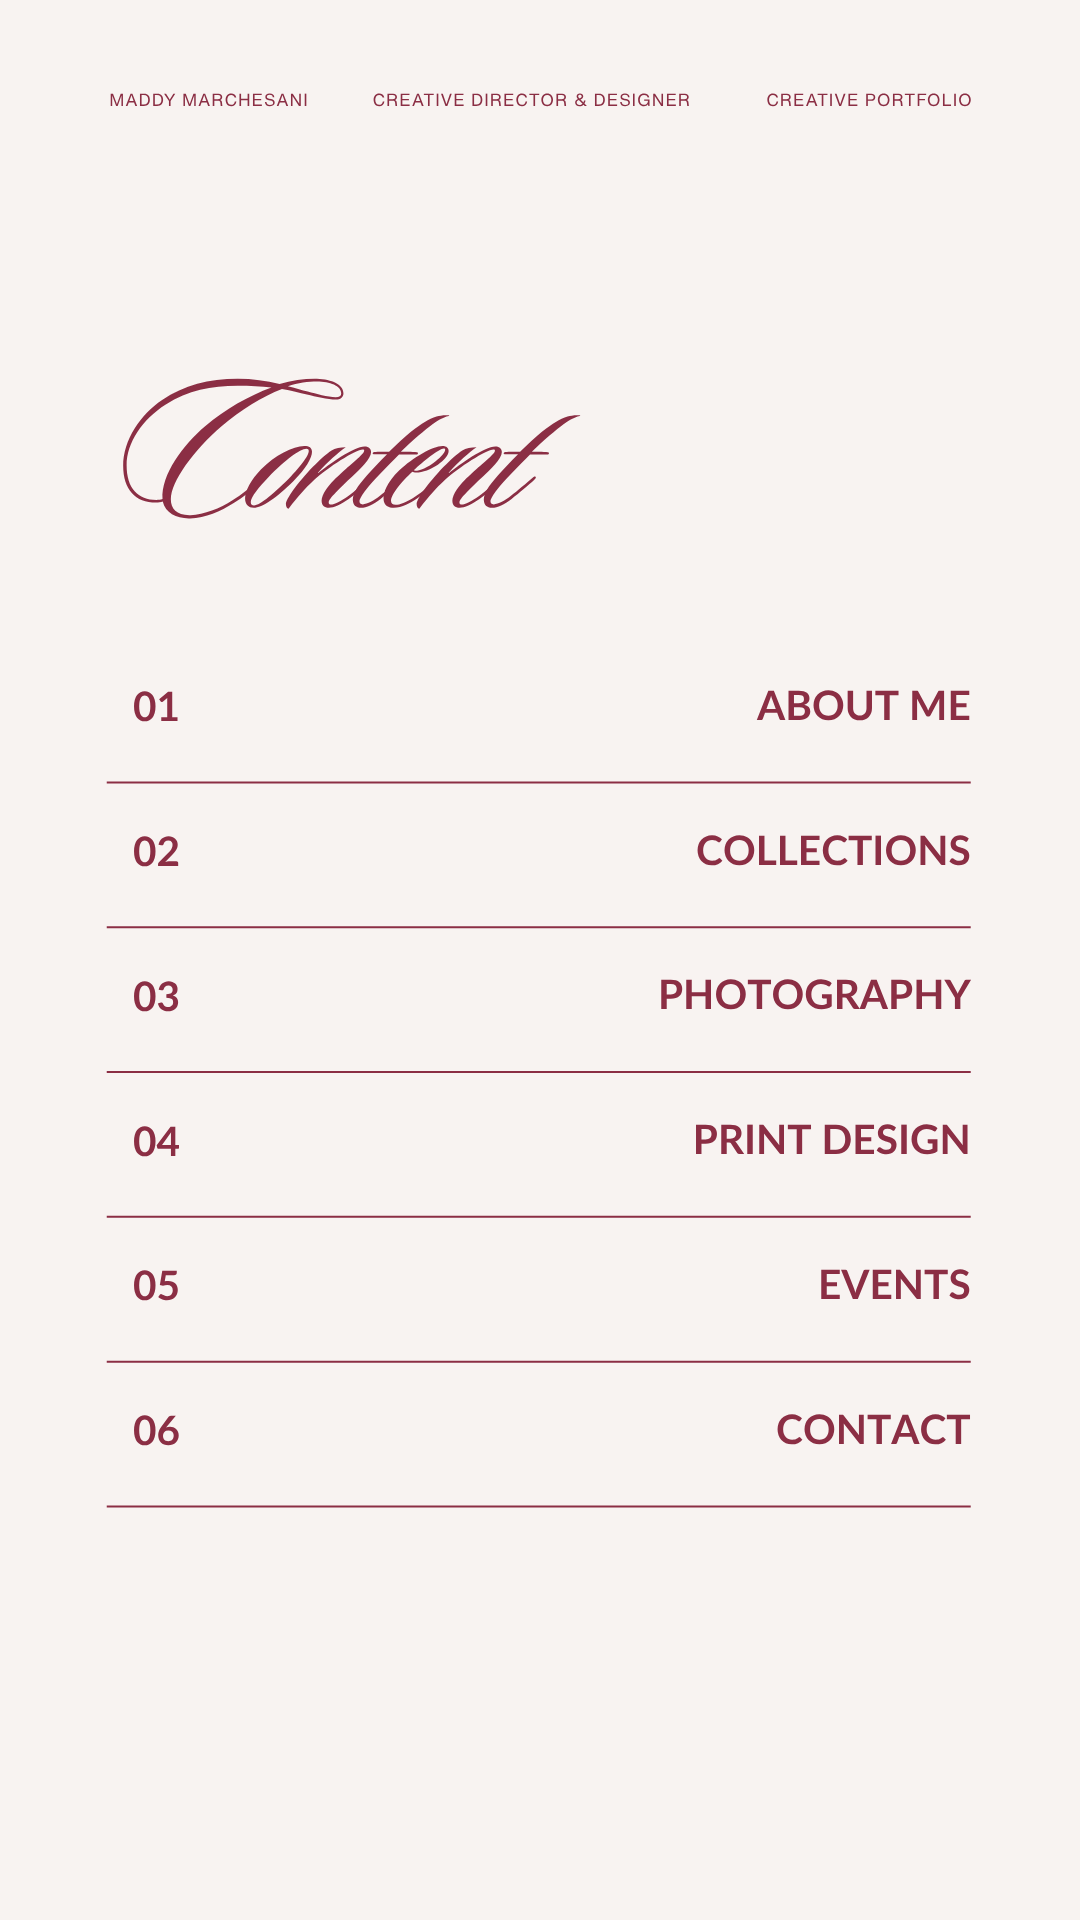
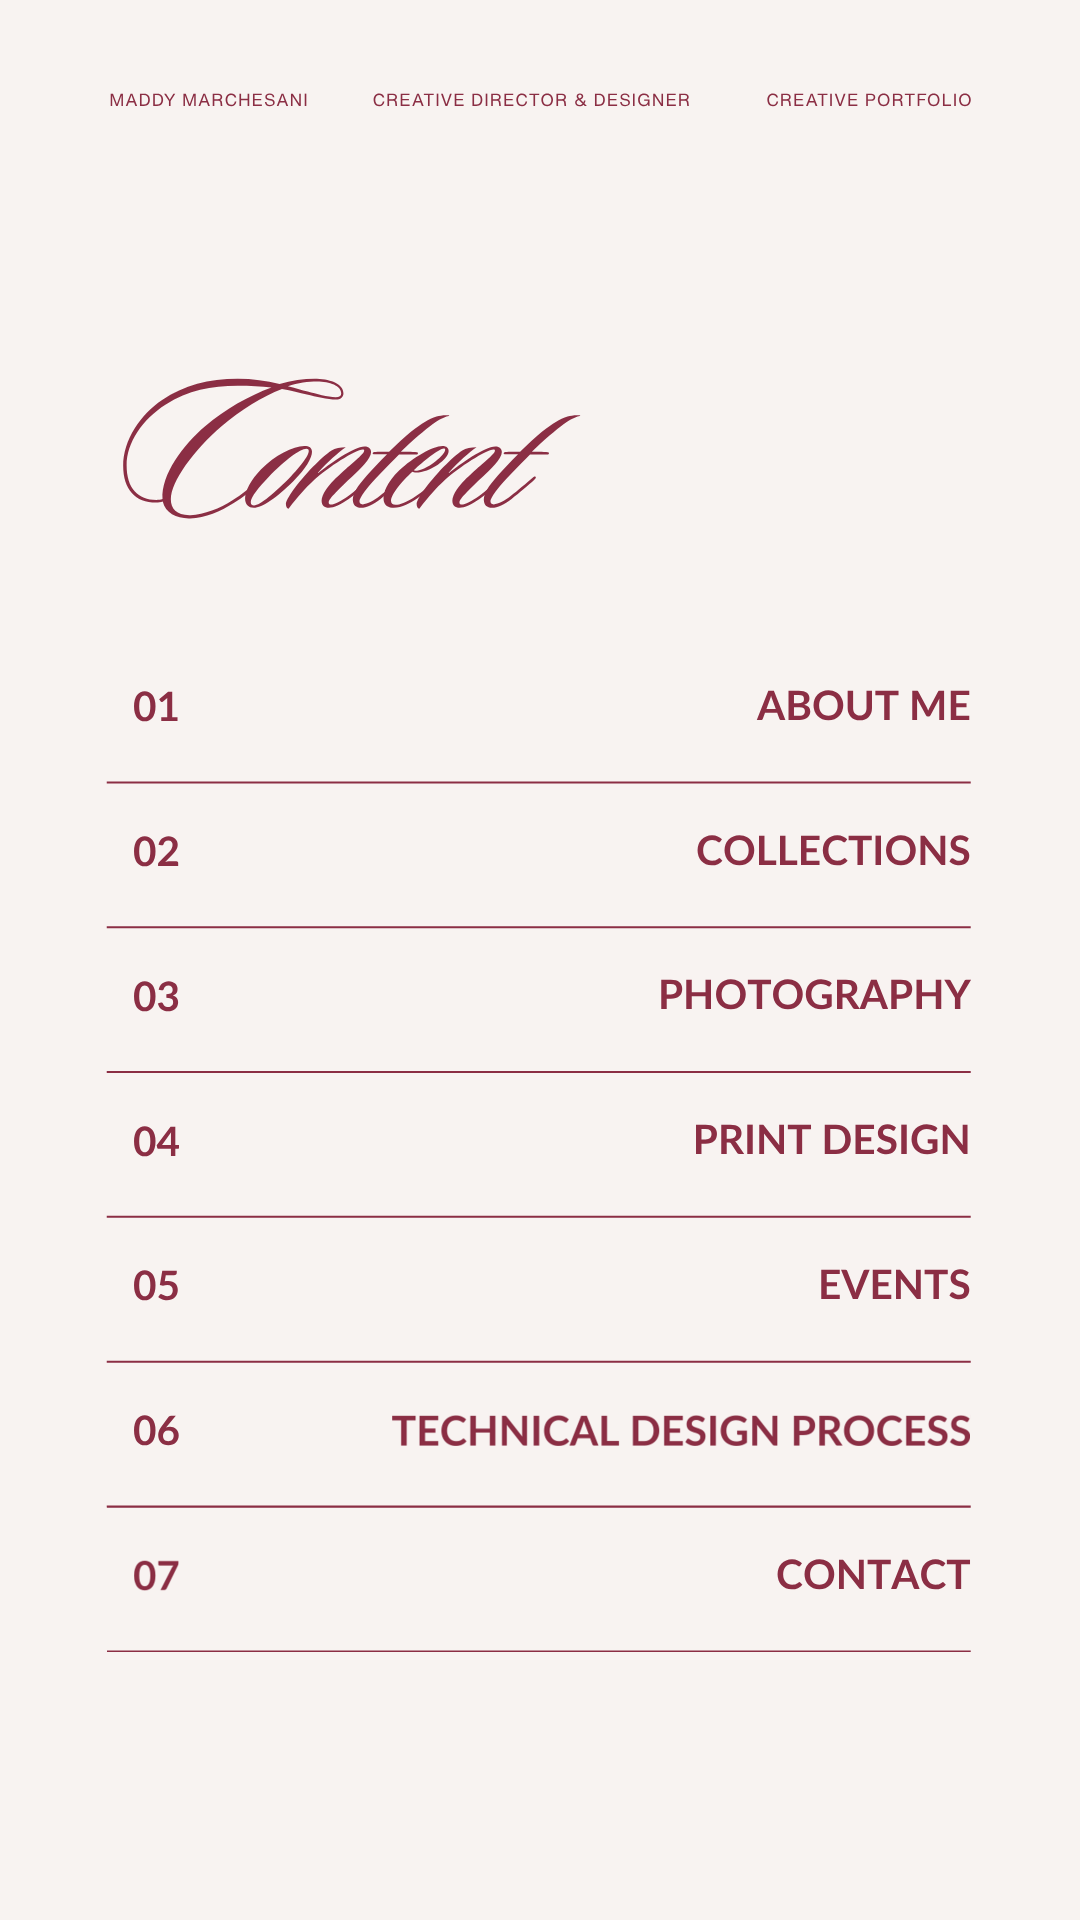
Add files via upload

diff --git a/contents.html b/contents.html
@@ -16,12 +16,13 @@
     <img class="design-bg contents-mobile-img mobile-img" src="assets/pages/contents-mobile.png" alt="Contents mobile" draggable="false">
 
     <!-- Desktop clickable buttons -->
-    <a class="hotlink contents-link contents-desktop-link" href="about.html" aria-label="About Me" style="left:48.12103%;top:26.56250%;width:32.21083%;height:7.81250%;"></a>
-    <a class="hotlink contents-link contents-desktop-link" href="collections.html" aria-label="Collections" style="left:48.12103%;top:36.11111%;width:32.21083%;height:7.81250%;"></a>
-    <a class="hotlink contents-link contents-desktop-link" href="photography.html" aria-label="Photography" style="left:48.12103%;top:45.65972%;width:32.21083%;height:7.81250%;"></a>
-    <a class="hotlink contents-link contents-desktop-link" href="print-design.html" aria-label="Print Design" style="left:48.12103%;top:55.20833%;width:32.21083%;height:7.81250%;"></a>
-    <a class="hotlink contents-link contents-desktop-link" href="events.html" aria-label="Events" style="left:48.12103%;top:64.75694%;width:32.21083%;height:7.81250%;"></a>
-    <a class="hotlink contents-link contents-desktop-link" href="contact.html" aria-label="Contact" style="left:48.12103%;top:74.30556%;width:32.21083%;height:7.81250%;"></a>
+    <a class="hotlink contents-link contents-desktop-link" href="about.html" aria-label="About Me" style="left:48.12103%;top:21.15890%;width:32.21083%;height:7.81250%;"></a>
+    <a class="hotlink contents-link contents-desktop-link" href="collections.html" aria-label="Collections" style="left:48.12103%;top:30.66410%;width:32.21083%;height:7.81250%;"></a>
+    <a class="hotlink contents-link contents-desktop-link" href="photography.html" aria-label="Photography" style="left:48.12103%;top:40.23440%;width:32.21083%;height:7.81250%;"></a>
+    <a class="hotlink contents-link contents-desktop-link" href="print-design.html" aria-label="Print Design" style="left:48.12103%;top:49.73960%;width:32.21083%;height:7.81250%;"></a>
+    <a class="hotlink contents-link contents-desktop-link" href="events.html" aria-label="Events" style="left:48.12103%;top:59.24480%;width:32.21083%;height:7.81250%;"></a>
+    <a class="hotlink contents-link contents-desktop-link" href="technical-design-process.html" aria-label="Technical Design Process" style="left:48.12103%;top:68.75000%;width:32.21083%;height:7.81250%;"></a>
+    <a class="hotlink contents-link contents-desktop-link" href="contact.html" aria-label="Contact" style="left:48.12103%;top:78.25520%;width:32.21083%;height:7.81250%;"></a>
 
     <!-- Mobile clickable buttons aligned to the visible rows -->
     <a class="hotlink contents-link contents-mobile-link" href="about.html" aria-label="About Me" style="left:8.40%;top:34.48%;width:83.20%;height:6.51%;"></a>
@@ -29,7 +30,8 @@
     <a class="hotlink contents-link contents-mobile-link" href="photography.html" aria-label="Photography" style="left:8.40%;top:49.53%;width:83.20%;height:6.51%;"></a>
     <a class="hotlink contents-link contents-mobile-link" href="print-design.html" aria-label="Print Design" style="left:8.40%;top:57.08%;width:83.20%;height:6.51%;"></a>
     <a class="hotlink contents-link contents-mobile-link" href="events.html" aria-label="Events" style="left:8.40%;top:64.64%;width:83.20%;height:6.51%;"></a>
-    <a class="hotlink contents-link contents-mobile-link" href="contact.html" aria-label="Contact" style="left:8.40%;top:72.19%;width:83.20%;height:6.51%;"></a>
+    <a class="hotlink contents-link contents-mobile-link" href="technical-design-process.html" aria-label="Technical Design Process" style="left:8.40%;top:72.19%;width:83.20%;height:6.51%;"></a>
+    <a class="hotlink contents-link contents-mobile-link" href="contact.html" aria-label="Contact" style="left:8.40%;top:79.74%;width:83.20%;height:6.51%;"></a>
   </main>
 </body>
 </html>

diff --git a/technical-design-process.html b/technical-design-process.html
@@ -1,0 +1,17 @@
+<!doctype html>
+<html lang="en">
+<head>
+  <meta charset="utf-8">
+  <meta name="viewport" content="width=device-width, initial-scale=1">
+  <title>Technical Design Process | Maddy Marchesani Portfolio</title>
+  <link rel="stylesheet" href="assets/style.css">
+</head>
+<body>
+  <main class="svg-page" aria-label="Technical Design Process">
+    <a class="back-arrow" href="contents.html" aria-label="Back">
+      <svg viewBox="0 0 32 32" aria-hidden="true"><path d="M19 7.5L10.5 16L19 24.5"/><path d="M11 16H25"/></svg>
+    </a>
+    <img class="design-bg" src="assets/pages/technical-design-process.webp" alt="Technical Design Process" draggable="false">
+  </main>
+</body>
+</html>
